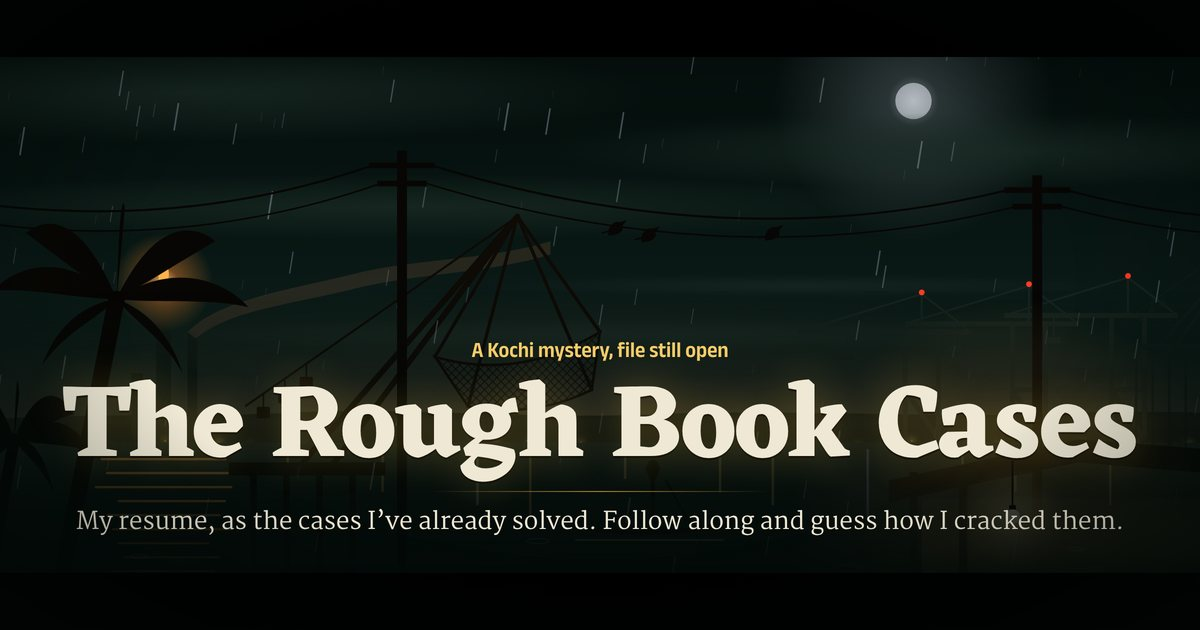
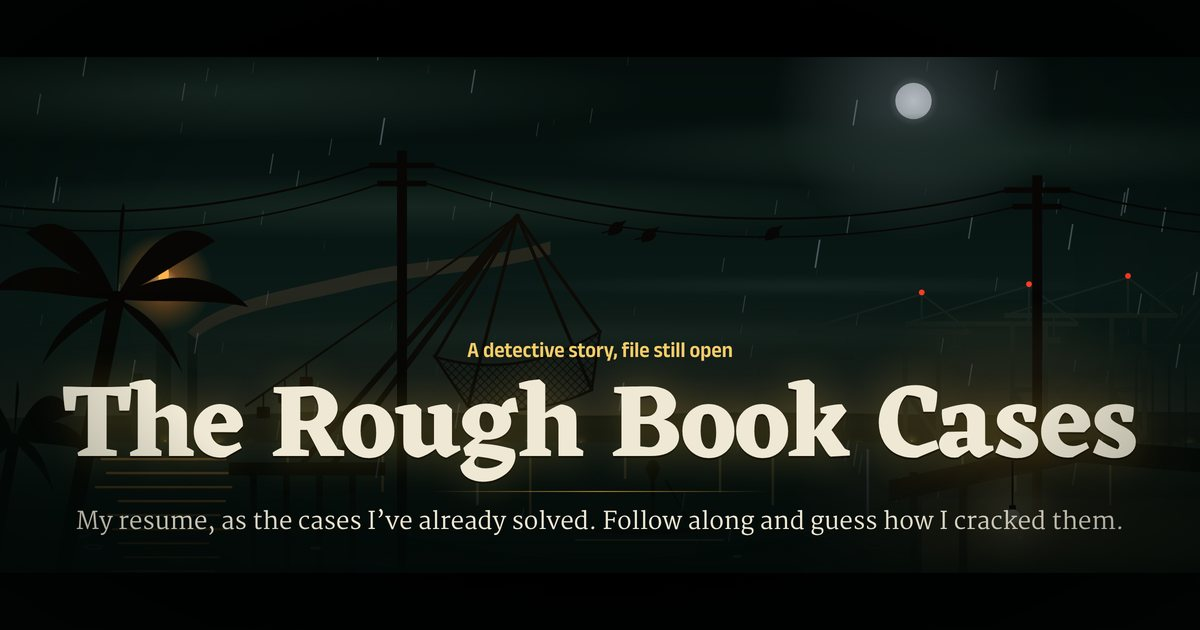
Drop Kochi from the cover line and apartment card
The cover now reads "A detective story, file still open", the
apartment card says "After work", and the link preview image and its
alt text are re-made to match.

Claude-Session: https://claude.ai/code/session_0154nsSiAKe3x9FhFu8JTs2Z

Changed region(s): [[0.37, 0.5429, 0.6167, 0.573]]

diff --git a/index.html b/index.html
@@ -18,7 +18,7 @@
 <meta property="og:image:type" content="image/jpeg">
 <meta property="og:image:width" content="1200">
 <meta property="og:image:height" content="630">
-<meta property="og:image:alt" content="The Rough Book Cases, over a rainy night in Kochi.">
+<meta property="og:image:alt" content="The Rough Book Cases, on a rainy night.">
 <meta name="twitter:card" content="summary_large_image">
 <meta name="twitter:title" content="The Rough Book Cases">
 <meta name="twitter:description" content="Sanjay Krishna’s resume as a detective game: the product cases he’s solved so far, a rainy-night 3D apartment, and the plain case file.">
@@ -522,7 +522,7 @@ footer.foot a{color:var(--ivory-soft)}
       <div class="lb t" aria-hidden="true"></div>
       <div class="lb b" aria-hidden="true"></div>
       <div class="titles">
-        <p class="kicker">A Kochi mystery, file still open</p>
+        <p class="kicker">A detective story, file still open</p>
         <h1 id="cover-title" class="display album-title">The Rough Book Cases</h1>
         <span class="rule" aria-hidden="true"></span>
         <p class="premise">My resume, as the cases I’ve already solved. Follow along and guess how I cracked them.</p>
@@ -619,7 +619,7 @@ footer.foot a{color:var(--ivory-soft)}
       </div>
       <div class="apt-side">
         <div class="tag" id="caption" aria-live="polite">
-          <span class="label">Kochi, after work</span>
+          <span class="label">After work</span>
           <h3>Look around</h3>
           <p>Click anything that catches your eye.</p>
         </div>
